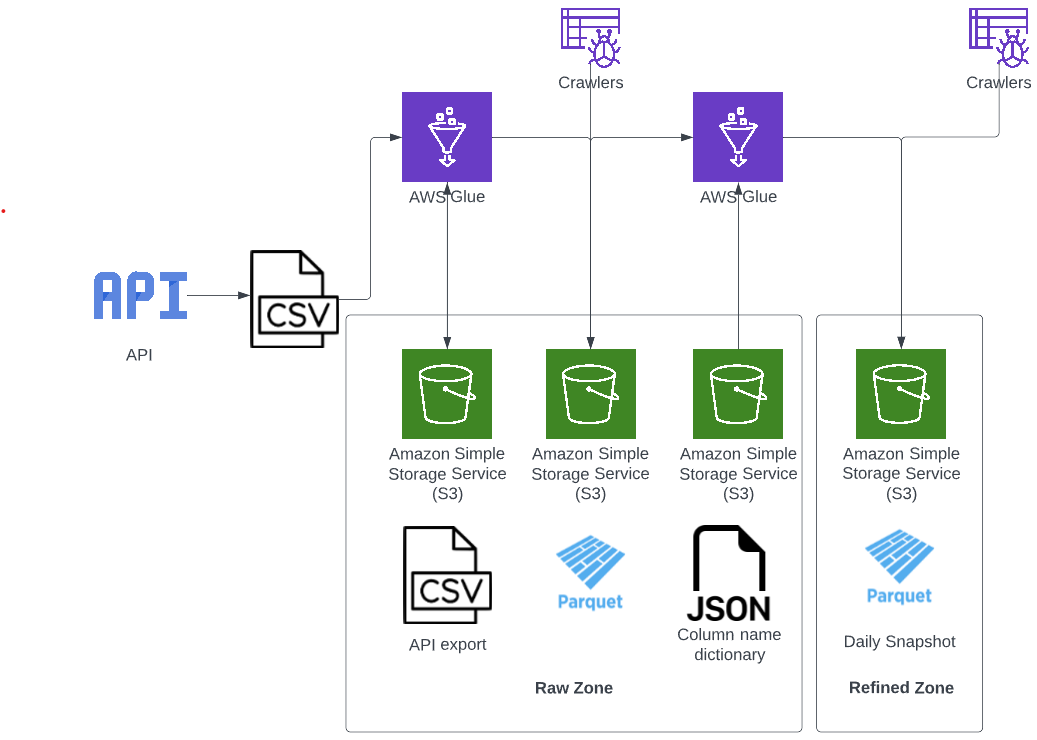
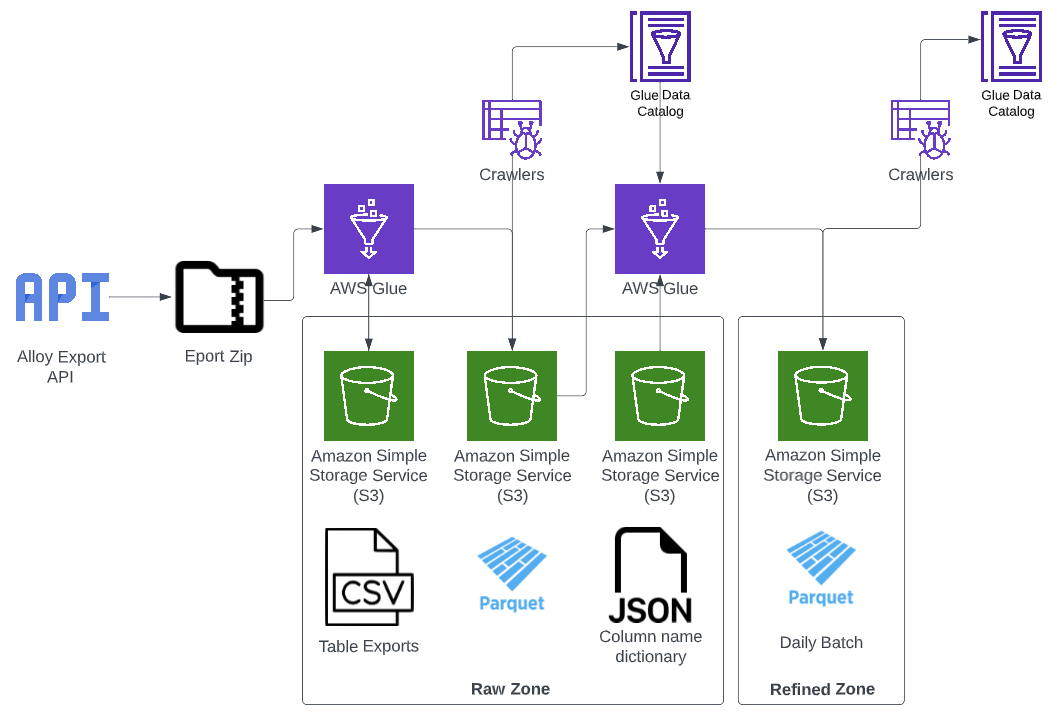
update docs

diff --git a/docs/docs/alloy-ingestion.md b/docs/docs/alloy-ingestion.md
@@ -13,16 +13,15 @@ The following diagram describes the process steps that make up the pipeline for 
 
 ![Alloy data ingestion process](../docs/images/alloy_pipeline.png)
 
-- A Glue job that checks for existing data and requests either:
-  - an initial extract of the full data set
-  - an extract of records that have changed since the last extraction
-- The returned data is then saved to the _raw zone_ as csv
-- This data is then converted to parquet format and saved to s3
-- Once this data is crawled, a second Glue job is triggered that creates a daily snapshot of the data, either:
-  - the full initial extract
-  - the updated records applied to the previous snapshot, similar to an UPSERT
-- This job then also checks for a column header dictionary and where present applies the new headers
-- This data is then crawled and made available in the _refined zone_
+- An initial Glue job triggered on a schedule
+  - requests the export described in AQS (Alloy query syntax) from the API
+  - extracts the csv tables from the returned zip file and saves them to the raw zone in S3
+  - applies only a necessary amount of transformation to save a copy of the data as parquet files also to s3
+- On job completion, a crawler updates tables in the Glue Catalog with the new parquet files
+- A second Glue job then creates Dynamic Frames for all unprocessed parquet files for each table in the raw zone
+  - this job then checks for a column name dictionary in S3 then applies a mapping if one is found
+  - the transformed data is then exported to the refined zone and saved to s3
+- This data is then crawled and made available in the _refined zone_ Catalog
 
 ## Retrieving a data extract from the Alloy API
 
@@ -30,28 +29,47 @@ The following diagram describes the process steps that make up the pipeline for 
 
 Each query creates a new job for that dataset that runs independently of any other queries.  
 
-The script first checks whether an existing dataset for the query exists on platform, and where one does updates the query to retrieve only new or updated records. The default behaviour is to request all records. 
+A request is sent to the API and once the export is complete the data is downloaded and extracted as a zip file containing csvs that are saved in S3. These csvs then read from the S3 bucket to a spark data frame. Minimal transformation is applied to allow for conversion to parquet format and import datetime columns are added to allow for partitioning of the data. 
 
-A request is then sent to the API and once the export is complete the data is downloaded and extracted as a csv in S3. This csv is then read from the S3 bucket to a spark data frame. Minimal transformation is applied to allow for conversion to parquet format and import datetime columns are added to allow for partitioning of the data. 
+## Creating the refined tables
 
-## Creating the daily snapshot
+[*The second Glue job*](https://github.com/LBHackney-IT/Data-Platform/blob/main/scripts/jobs/env_services/alloy_raw_to_refined.py) looks for tables in the _env-services-raw-zone_ Glue Catalog database with a given prefix of the form "parent table name_".
 
-[*The second Glue job*](https://github.com/LBHackney-IT/Data-Platform/blob/main/scripts/jobs/env_services/alloy_create_snapshot.py) takes the returned data from the _raw zone_ and  appends it to previous extracts replacing any records that have been updated since the last load.
+It then iterates over each of the sub-tables to process any parquet files in the raw zone since the last run (identified using the job bookmarking feature). 
 
-Additionally, the job checks for the presence of a column naming file in the _raw zone_ bucket with the following key:
-
-> env-services/alloy/mapping-files/table_name.json
-
-This takes the form:
+As part of the refining process, the job checks for a json dictionary stored in s3 under the raw bucket with a key formed like this:
 
 
->{
->"old_name1": "new_name1",
->"old_name2": "new_name2",
+> env-services/alloy/mapping-files/parent table name_table_name.json
+
+The json is of the form:
+
+
+>{<br>
+>    "old_name1": "new_name1",<br>
+>    "old_name2": "new_name2",<br>
 >...
 >}
 
 If a key is not present in the table no action will be taken, and similarly if there is no key for a column that is present in the table it remains unchanged. 
+
+Column names are cleaned to conform to requirements for parquet formatted files. Refined date columns are added. Then the resultant DynamicFrames are written to the _Refined Zone_. 
+
+## Pipeline creation in Terraform
+
+[The Terraform](https://github.com/LBHackney-IT/Data-Platform/blob/main/terraform/etl/25-alloy-etl-env-services.tf) will create a complete pipeline and triggers for each AQS json file added to the [aqs directory in the Data-Platform repository](https://github.com/LBHackney-IT/Data-Platform/tree/main/scripts/jobs/env_services/aqs).
+
+The naming of these files dictates the names for the resources in AWS. Adding an AQS query in a file called "Parent Table.json" will create:
+- A Glue trigger:
+  - Alloy API Export Job Trigger **Parent Table**
+- 2 Glue jobs:
+  - alloy_api_export_**Parent Table**_env_services
+  - **Parent Table**_alloy_daily_raw_to_refined_env_services
+- 2 Crawlers
+  - Alloy Export Crawler **Parent Table**
+  - Alloy Refined Crawler **Parent Table**
+
+Removing files from this location will result in the related resources also being destroyed. 
  
 
 
